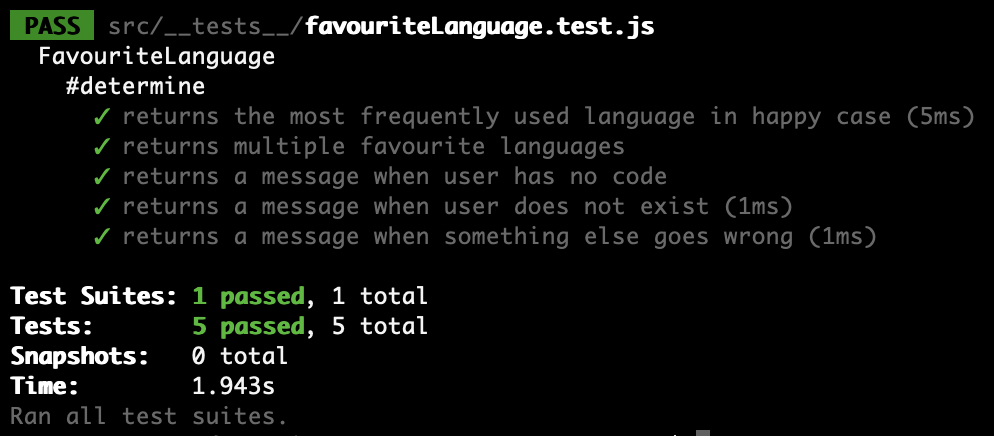
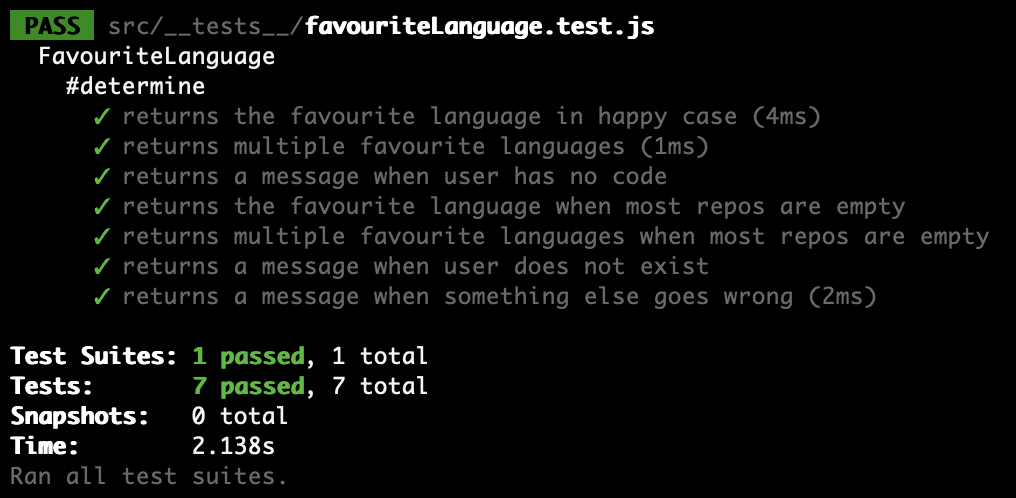
Updated test phrasing, updated README based on refactors

Changed region(s): [[0.0, 0.0, 0.998, 0.6261], [0.0, 0.656, 0.4366, 0.9839], [0.6861, 0.9839, 0.7173, 1.0]]

diff --git a/src/__tests__/favouriteLanguage.test.js b/src/__tests__/favouriteLanguage.test.js
@@ -10,7 +10,7 @@ describe("FavouriteLanguage", () => {
   });
 
   describe("#determine", () => {
-    test("returns the most frequently used language in happy case", async () => {
+    test("returns the favourite language in happy case", async () => {
       axios.get.mockImplementationOnce(() =>
         Promise.resolve({
           status: 200,
@@ -70,7 +70,7 @@ describe("FavouriteLanguage", () => {
       }
     });
 
-    test("returns most used language when most repos are empty", async () => {
+    test("returns the favourite language when most repos are empty", async () => {
       axios.get.mockImplementation(() =>
         Promise.resolve({
           status: 200,
@@ -81,7 +81,7 @@ describe("FavouriteLanguage", () => {
       expect(await favourite.determine()).toStrictEqual("Ruby");
     });
 
-    test("returns multiple most used languages when most repos are empty", async () => {
+    test("returns multiple favourite languages when most repos are empty", async () => {
       axios.get.mockImplementation(() =>
         Promise.resolve({
           status: 200,

diff --git a/README.md b/README.md
@@ -1,6 +1,6 @@
 # Favourite Language
 
-A little website which makes a guess of a user's favourite language using the GitHub API.
+A little website which makes a guess of a user's favourite language using the GitHub API and Axios.
 
 ![App Screenshot](./src/imgs/app-screenshot.png)
 
@@ -10,7 +10,8 @@ A little website which makes a guess of a user's favourite language using the Gi
 2. Clone this repository
 3. Install [node.js](https://nodejs.org/en/) and run `npm install` in the command line to install dependencies
 4. Open index.html
-5. To run test, enter `npm test` from the root directory
+
+To run test, enter `npm test` from the root directory.
 
 ![Tests Screenshot](./src/imgs/tests-screenshot.png)
 
@@ -18,13 +19,13 @@ A little website which makes a guess of a user's favourite language using the Gi
 
 - MVC architecture (src/favouriteLanguage.js, index.html, interface.js)
 - Tried to follow OOP principles as much as possible
-- TDD -> red, green, refactor
-- Refactored at other stages when I felt it was appropriate
+- TDD -> red, green, refactor. Mocked API calls using Jest's `#mockImplementation` methods.
+- Refactored at other stages where I felt it was appropriate
 
 ## Thoughts/ Next Steps
 
 - I feel there are opportunities to refactor src/favouriteLanguage.js. Not 100% on the use of constants here nor how verbose the calculateMostFrequentLanguages method is.
-- I noticed a missed edge case in the tests. Where the majority of a user's repositories are empty but a minority aren't (e.g. 3 empty repos, 1 with JavaScript -> my code would return null). It would be nice to fix this, but I ran out of time this weekend.
-- I tried to get a more accurate picture of a user's favourite language with commit count/ number of bytes of each language. Quickly hit the API rate limit in this way though, so user authentication would be required.
-- Not 100% sure if looping tests is good practice, think there may be an in-built method for this. I went with it as the alternative was much, much longer!
+- I tried to get a more accurate picture of a user's favourite language with commit count/ number of bytes of each language. Quickly hit the API rate limit in this way though, so user authentication would be required. Could be worth considering in future.
+- Used Browserify to enable node imports in the browser. Believe Babel could also be used with imports/ exports?
+- There may be an in-built method for looping tests within Jest.
 - Could use some kind of framework here instead of the current very simple frontend.
